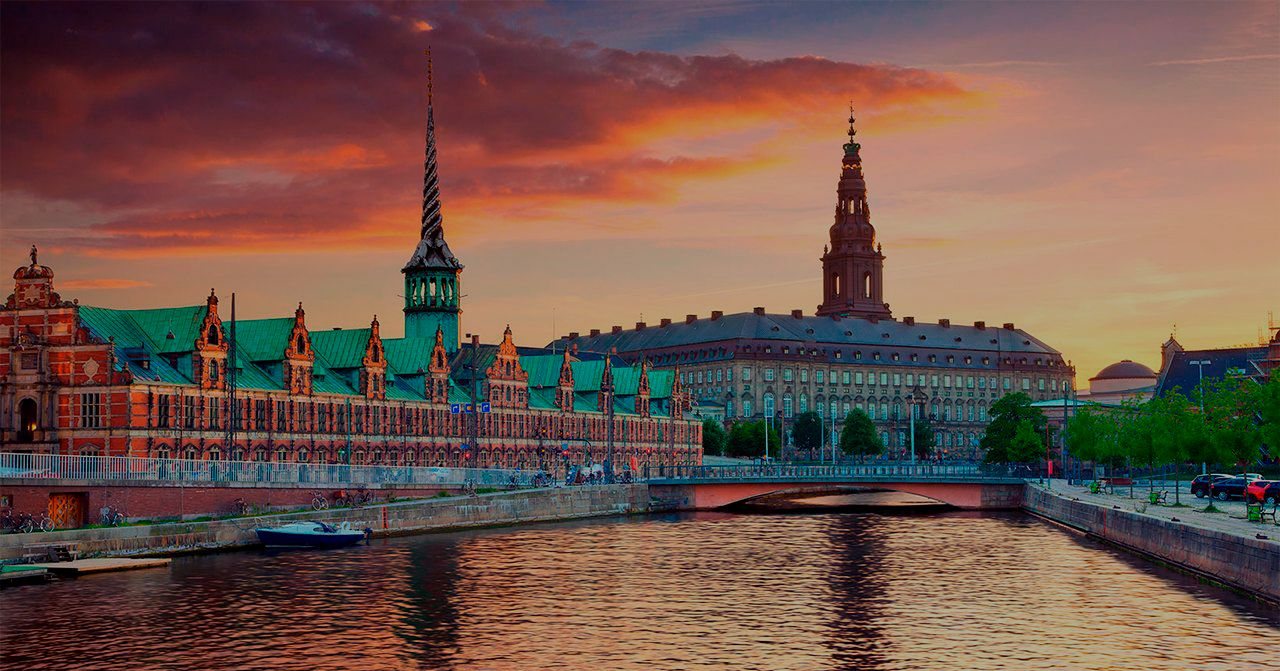
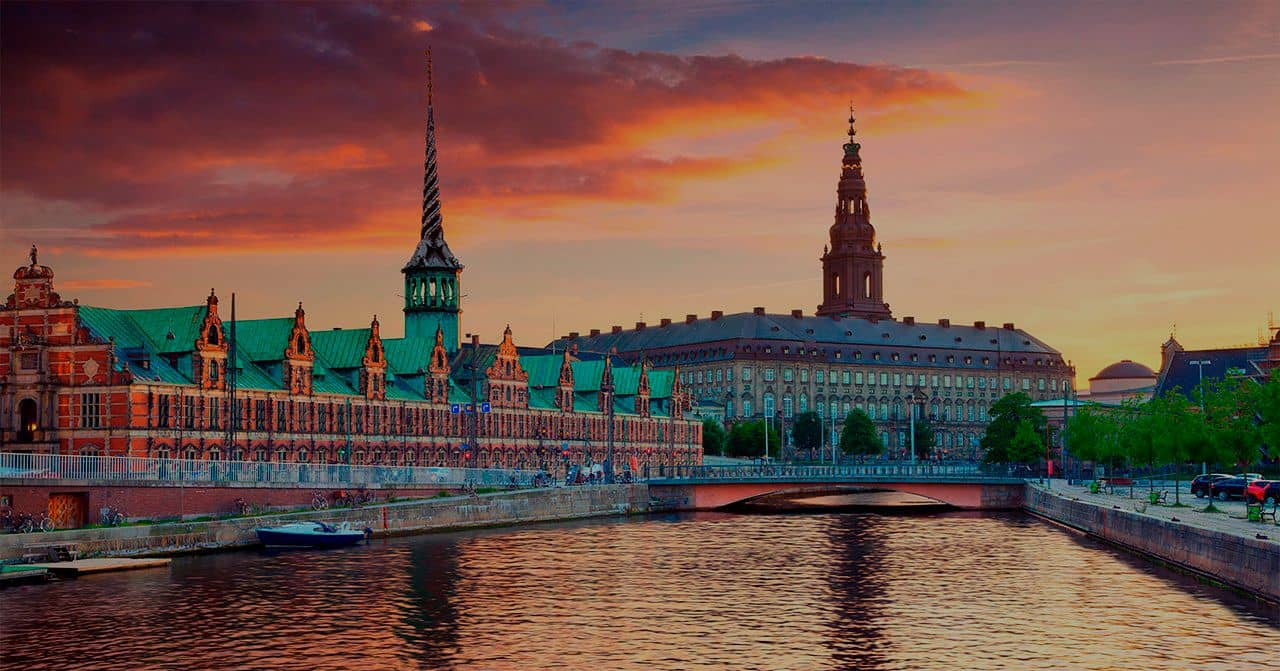
img optimizadas

diff --git a/css/estilo.css b/css/estilo.css
@@ -43,7 +43,6 @@ header h1{
 h1, nav{
 	display: inline-block;
 	vertical-align: middle;
-	border: 1px solid red;
 }
 
 #menu{
@@ -133,7 +132,7 @@ a:hover{
 	padding-top: 320px;
 	font-family: 'Open Sans', sans-serif;
 	margin-left: 80px;
-	font-size: 40px;
+	font-size: 30px;
 	color: #fff;
 	font-weight: 100px;
 }
@@ -256,6 +255,7 @@ a:hover{
 }
 
 /*imagen Forest Tower pagina inicio*/
+
 
 /*footer*/
 
@@ -571,7 +571,6 @@ a:hover{
 
 #formulario {
 	width:1280px;
-	height:500px;
 	padding:30px 0px;
 	color:white;
 	background-color:#025373;
@@ -580,12 +579,33 @@ a:hover{
 	margin: auto;
 	text-align:center;
 }
+/*Texto y titulo*/
 
+#formulario p{
+	width: 600px;
+	text-align: left;
+	margin-left: 360px;
+}
+
+#formulario h2{
+	margin-bottom: 25px;
+}
+
+/*titulo de inputs*/
+
+#formulario form div span{
+	margin: 10px 0px;	
+}
 /*textarea*/
 
 textarea{
 	width: 200px;
 	resize: none;
+}
+/*input file*/
+
+.inputfile{
+	margin-bottom: 10px;
 }
 
 /*separacion entre inputs*/
@@ -595,6 +615,11 @@ textarea{
 }
 
 /*Botones*/
+
+.botones{
+	width: 200px;
+	height: 30px;	
+}
 
 .verde{
 	background-color: #87b719;
@@ -658,7 +683,6 @@ textarea{
 	header h1{
 		font-size: 40px;
 		margin-left:20px;
-		border: 1px solid red;
 	}
 
 	/*Menu de navegacion*/
@@ -669,7 +693,6 @@ textarea{
 		height: 36px;
 		display:inline-block;
 		font-size:0;
-		border:solid 1px blue; 
 		margin-left:30px;
 		vertical-align: middle;
 	}

diff --git a/contacto.html b/contacto.html
@@ -71,15 +71,19 @@
 					<span>Mensaje</span>
 					<textarea name="mensaje" rows="5" cols="15"></textarea>
 				</div>
+				<div class="inputfile">
+					<span>Subi una foto de tu documento <br>*Requerido*</span>
+					<input class="inputfile" type="file" name="archivo" required>
+				</div>
 
-				<div>
+				<div id>
 					<input id="acepto" type="checkbox" name="acepto" value="si" />
 					<label for="acepto">Acepto los terminos y condiciones</label>
 				</div>
     
-			<input type="reset" value="Comenzar de nuevo">
+			<input class="botones" type="reset" value="Comenzar de nuevo">
 			
-			<input class="verde" type="submit" value="Enviar">
+			<input class="verde botones" type="submit" value="Enviar">
 
 
 		</form>

diff --git a/index.html b/index.html
@@ -3,6 +3,7 @@
 <head>
     <meta charset="UTF-8">
     <title>Copenhague</title>
+	<meta name="viewport" content="width=device-width, initial-scale=1, maximum-scale=1" />
 	<link rel="preconnect" href="https://fonts.googleapis.com">
 	<link rel="preconnect" href="https://fonts.gstatic.com" crossorigin>
 	<link href="https://fonts.googleapis.com/css2?family=Open+Sans:ital,wght@0,400;0,700;1,400;1,700&display=swap" rel="stylesheet">
